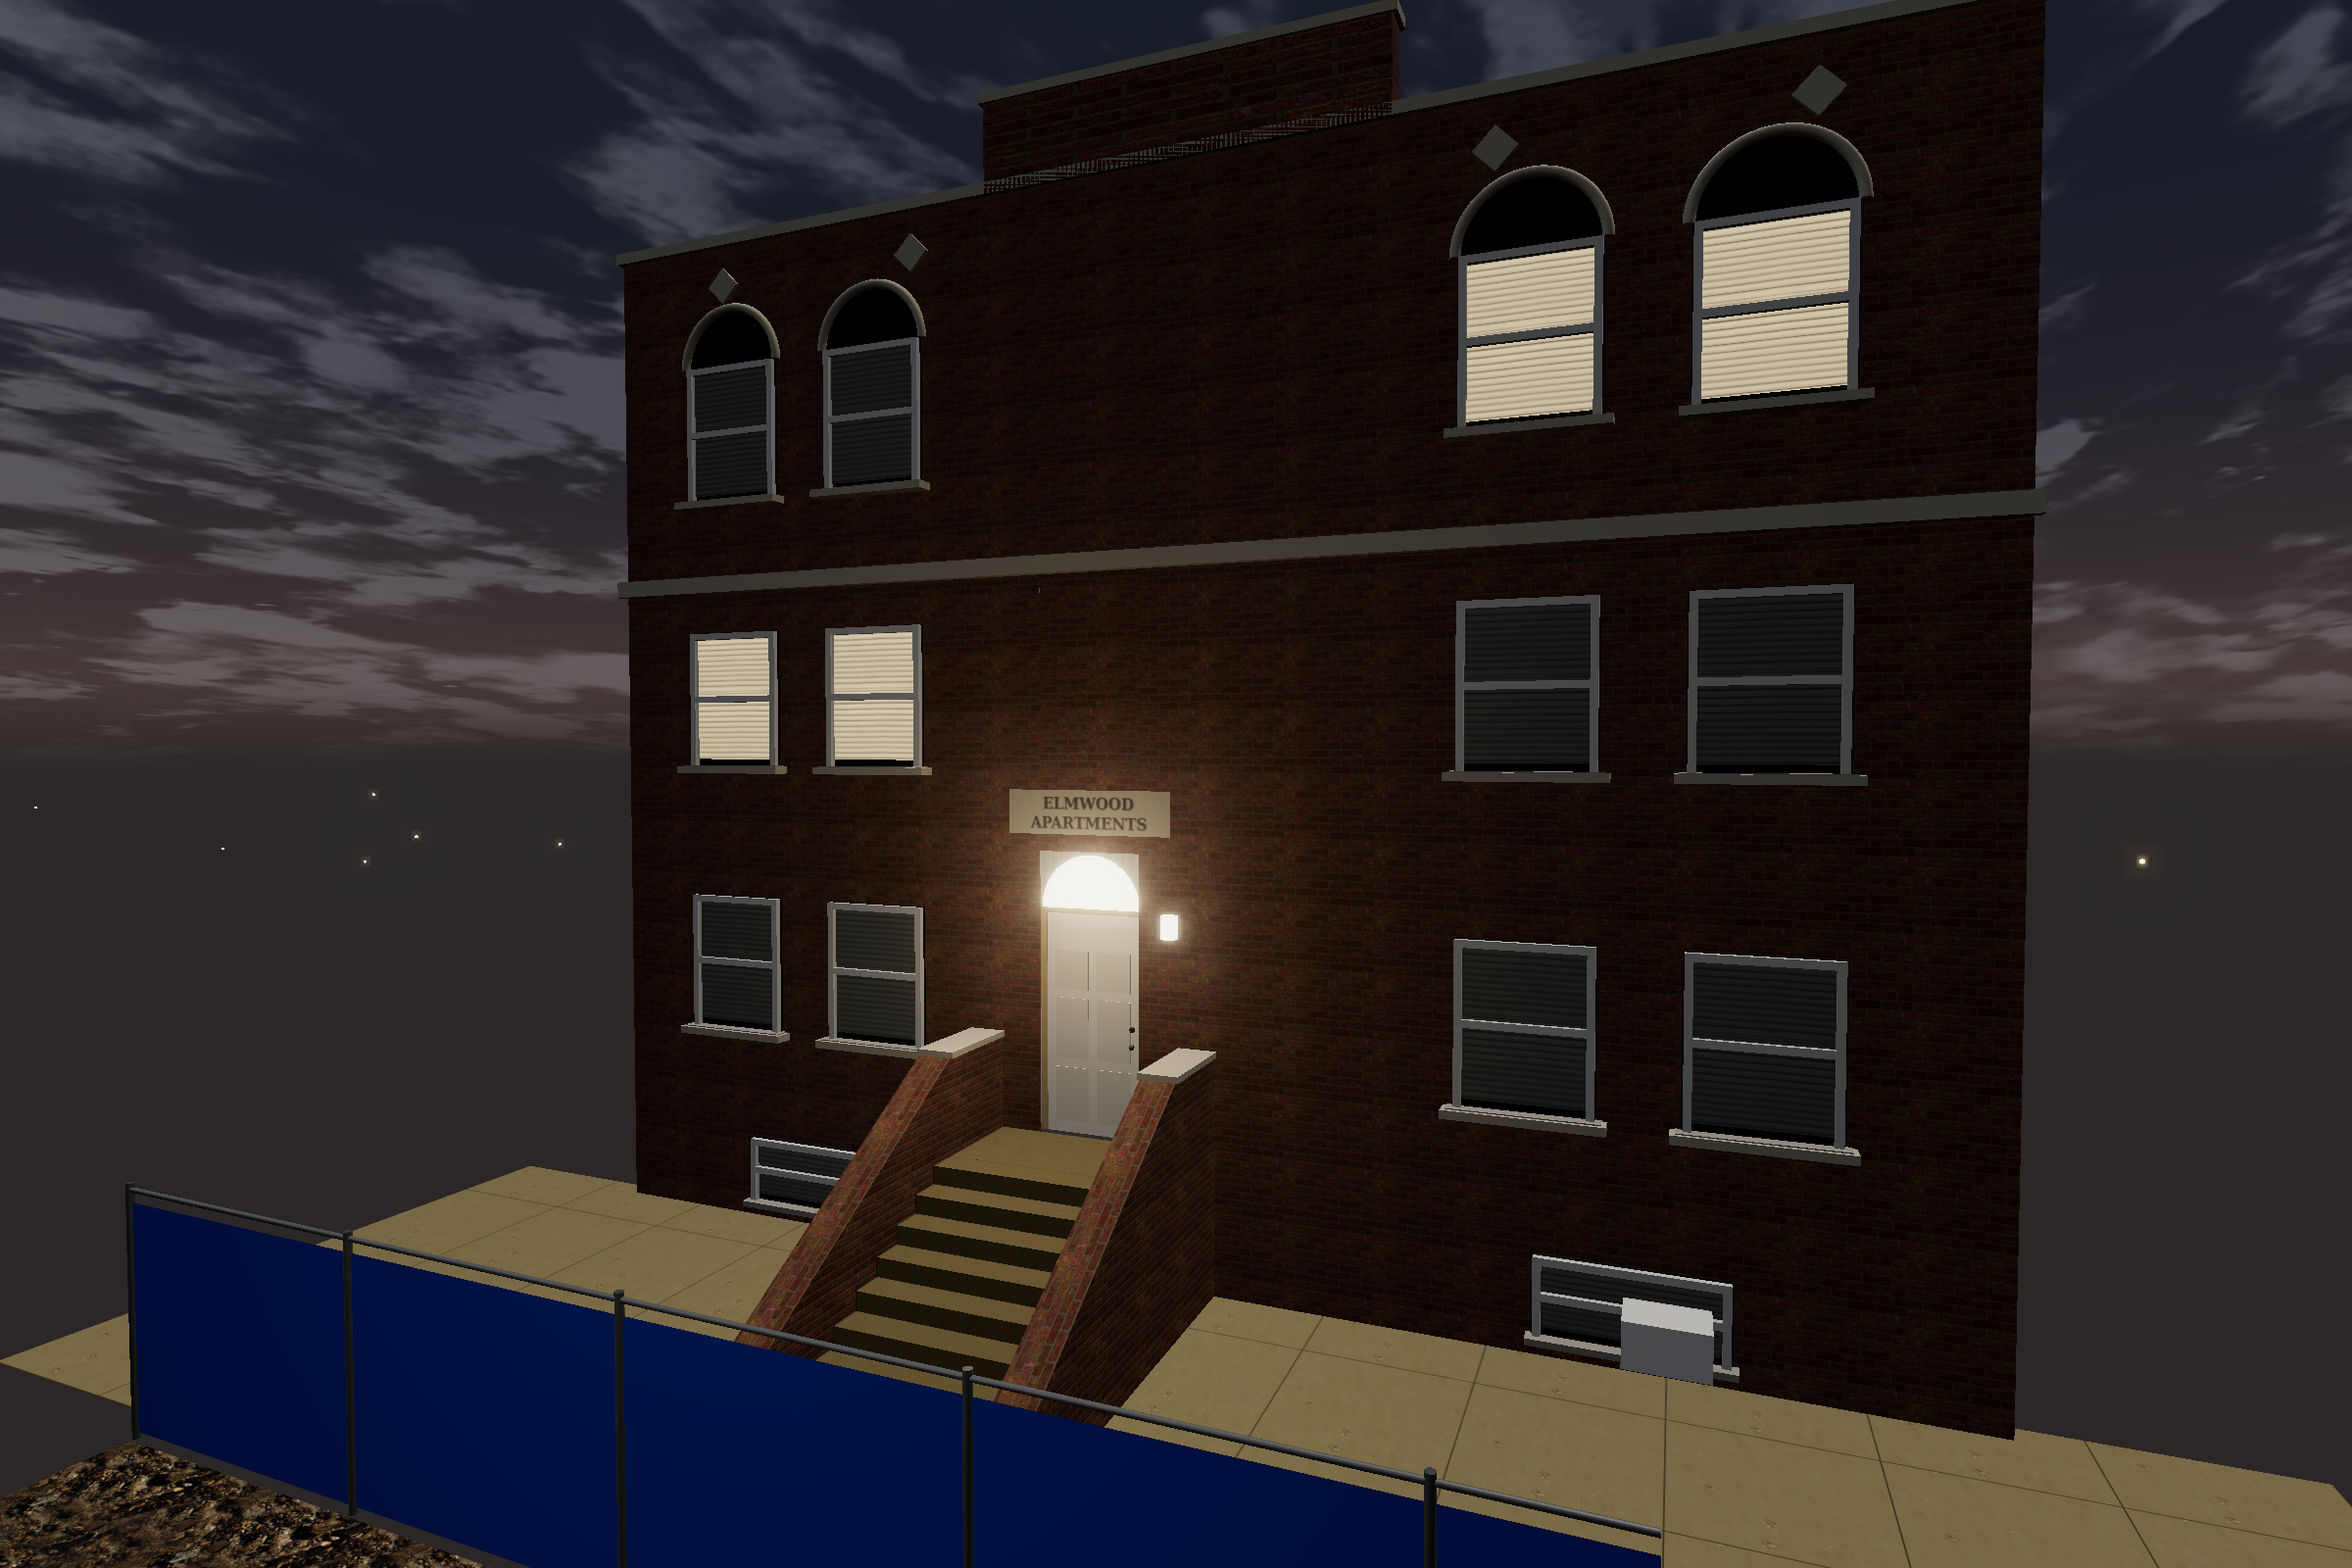
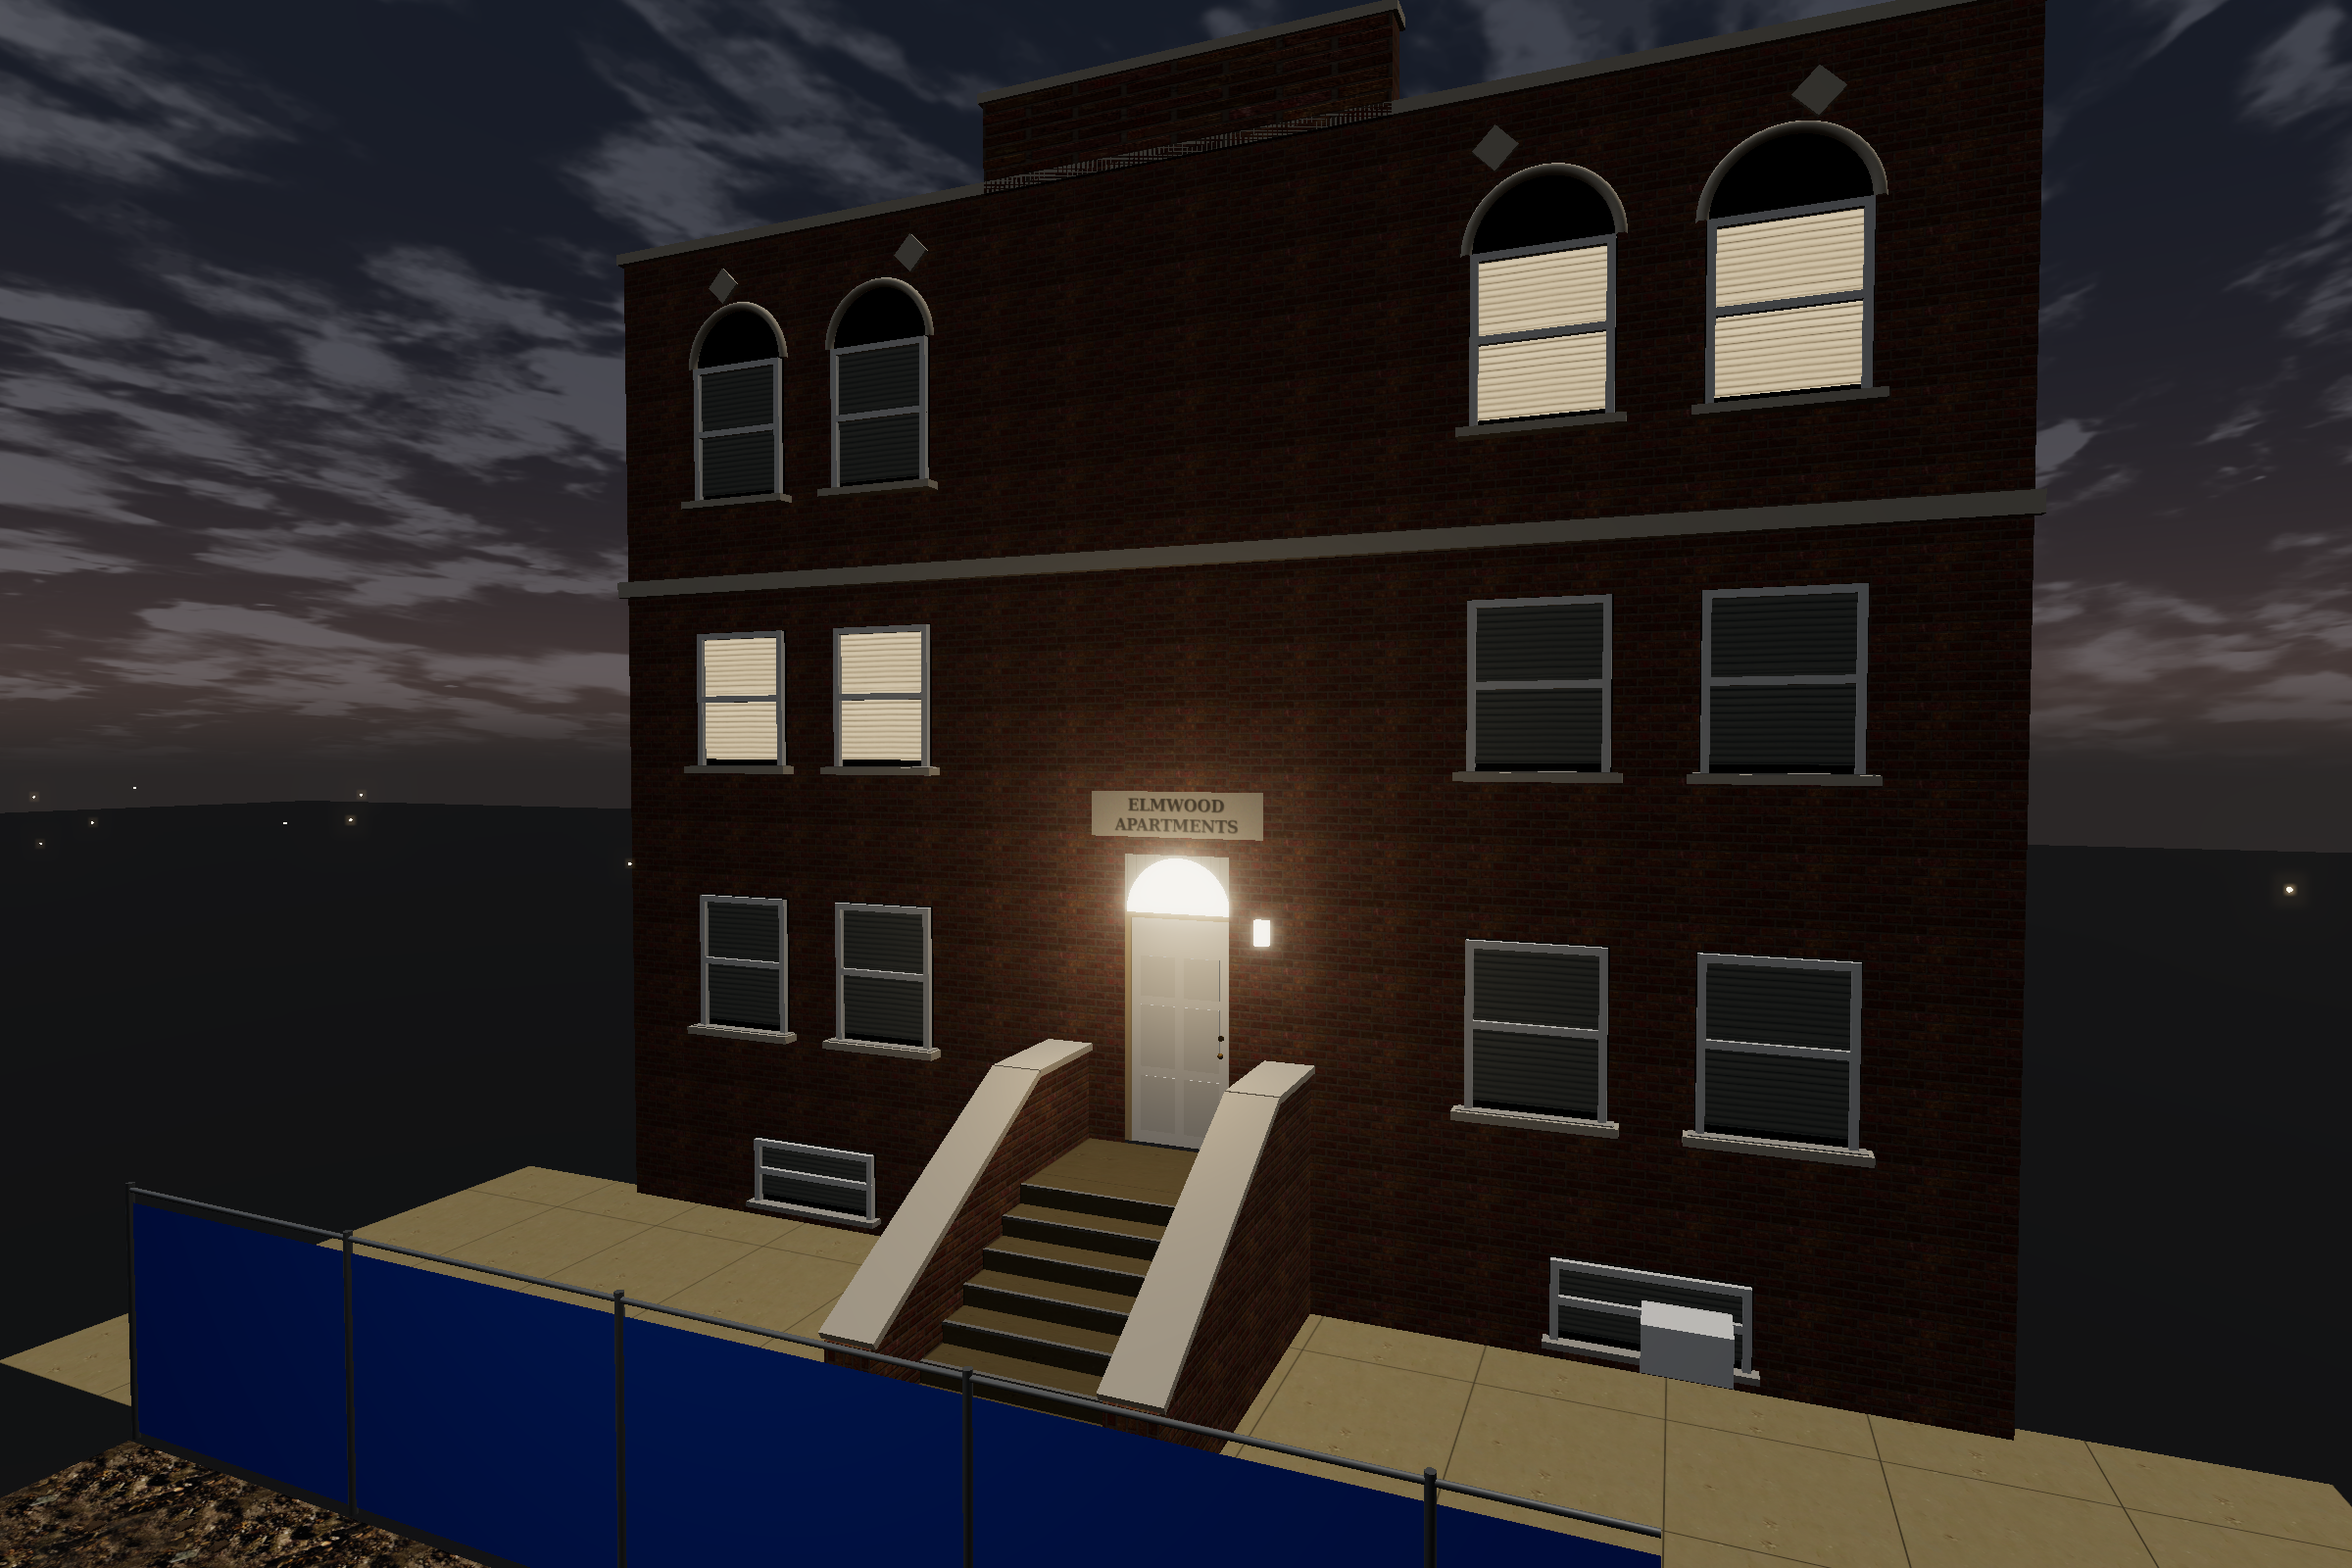
Fix giant black walls (ground pieces were stood upright); Elmwood: centred entry, rebuilt stoop with flared cheek walls; queue listings + robot vending
Claude-Session: https://claude.ai/code/session_01TQrqJmAwukpHBFUrZd2qrz

diff --git a/src/models/apartment.js b/src/models/apartment.js
@@ -38,8 +38,8 @@ export const APT = {
   F1: 1.4,      // raised first floor (stoop height)
   F2: 4.4,      // second floor
   FH: 3.0,
-  hall: { x0: -1.9, x1: 0.0 },       // hallway strip
-  stair: { x0: 0.1, x1: 1.1, z0: -2.6, z1: 2.4 }, // climbs toward -z
+  hall: { x0: -0.95, x1: 0.95 },     // hallway strip, centred on the building
+  stair: { x0: 1.05, x1: 2.05, z0: -2.6, z1: 2.4 }, // climbs toward -z
 };
 
 function sixPanelDoor(M, w = 0.86, h = 2.03) {
@@ -122,7 +122,7 @@ export function makeApartment() {
   }
 
   // windows: 3 columns each side of the entry bay; top floor arched
-  const cols = [-5.4, -3.5, 3.3, 5.2];
+  const cols = [-5.3, -3.4, 3.4, 5.3];  // symmetric about the centred entry
   for (let f = 0; f < 3; f++) {
     for (const x of cols) {
       const y = F1 + f * FH + 1.5;
@@ -141,7 +141,7 @@ export function makeApartment() {
     }
   }
   // garden-level windows with AC units
-  for (const x of [-4.4, 4.2]) {
+  for (const x of [-4.35, 4.35]) {
     const w = makeWindow(1.6, 0.7, false);
     w.position.set(x, 0.55, zf + 0.01);
     g.add(w);
@@ -164,31 +164,56 @@ export function makeApartment() {
   el.position.set((dx0 + dx1) / 2, F1 + 2.4, zf + 1.4);
   g.add(el);
 
-  // ------------------------------------------------ brick stoop with flared cheek walls
-  const steps = 8, rise = F1 / steps, run = 0.3;
-  const sw = 2.0, scx = (dx0 + dx1) / 2;
-  const landD = 1.0;
-  g.add(box(sw, F1, landD, M.concrete, scx, F1 / 2, zf + landD / 2));
+  // ------------------------------------------------ brick stoop (front photos)
+  // Grey concrete steps between thick brick cheek walls; each wall slopes down with
+  // the stair and ends in a short wing that flares outward, with a stone cap.
+  const steps = 8, rise = F1 / steps, run = 0.32;
+  const sw = 1.9, scx = (dx0 + dx1) / 2;
+  const landD = 1.1;
+  const stepMat = std({ map: tex('sidewalk.png'), color: '#a7a49e', roughness: 0.95 });
+  g.add(box(sw, F1, landD, stepMat, scx, F1 / 2, zf + landD / 2));
   for (let i = 0; i < steps; i++) {
-    const zz = zf + landD + (steps - 1 - i) * run + run / 2;
-    g.add(box(sw, rise * (i + 1), run, M.concrete, scx, rise * (i + 1) / 2, zz));
+    const h = rise * (steps - i);                    // i = 0 is the top step next to the landing
+    const zz = zf + landD + i * run + run / 2;
+    g.add(box(sw, h, run, stepMat, scx, h / 2, zz));
+    g.add(box(sw + 0.02, 0.025, 0.04, std({ color: '#7d7b77' }), scx, h - 0.012, zz + run / 2 - 0.02, { shadow: false })); // nosing
   }
   const stoopEnd = zf + landD + steps * run;
+  const T = 0.42;                                    // wall thickness
+  const brickSide = (len, hgt) => plane(M.brick, len, hgt, 0.86, 0.61);
   for (const s of [-1, 1]) {
-    // cheek wall: a brick slab whose top follows the stairs, flaring out at the bottom
-    const pts = [[zf, 0], [stoopEnd + 0.4, 0], [stoopEnd + 0.4, 0.55], [zf + landD, F1 + 0.95], [zf, F1 + 0.95]];
+    const xc = scx + s * (sw / 2 + T / 2);
+    // profile in (z, y): level beside the landing, then sloping down with the steps
+    const top = (z) => (z <= zf + landD ? F1 + 0.9 : Math.max(0.55, F1 + 0.9 - (z - zf - landD) * (rise / run)));
+    const pts = [[zf, 0], [stoopEnd, 0], [stoopEnd, top(stoopEnd)], [zf + landD, F1 + 0.9], [zf, F1 + 0.9]];
     const shape = new THREE.Shape(pts.map(([z, y]) => new THREE.Vector2(z, y)));
-    const geo = new THREE.ExtrudeGeometry(shape, { depth: 0.35, bevelEnabled: false });
-    geo.rotateY(-Math.PI / 2);
+    const geo = new THREE.ExtrudeGeometry(shape, { depth: T, bevelEnabled: false });
+    geo.rotateY(-Math.PI / 2);                       // shape x -> world z, extrusion -> world -x
     const uv = geo.attributes.uv;
     for (let i = 0; i < uv.count; i++) uv.setXY(i, uv.getX(i) / 0.86, uv.getY(i) / 0.61);
     const wall = new THREE.Mesh(geo, M.brick);
-    wall.position.x = scx + s * (sw / 2 + 0.175) + 0.175;
+    wall.position.x = xc + T / 2;
     wall.castShadow = wall.receiveShadow = true;
     g.add(wall);
-    const cap = box(0.4, 0.06, landD, M.stone, scx + s * (sw / 2 + 0.175), F1 + 0.98, zf + landD / 2);
+    // stone cap following the top: level part + sloped part
+    g.add(box(T + 0.08, 0.07, landD, M.stone, xc, F1 + 0.935, zf + landD / 2));
+    const slopeLen = Math.hypot(stoopEnd - zf - landD, F1 + 0.9 - top(stoopEnd));
+    const cap = box(T + 0.08, 0.07, slopeLen, M.stone, xc, (F1 + 0.9 + top(stoopEnd)) / 2 + 0.035, (zf + landD + stoopEnd) / 2);
+    cap.rotation.x = Math.atan2(F1 + 0.9 - top(stoopEnd), stoopEnd - zf - landD);
     g.add(cap);
-    solid(scx + s * (sw / 2 + 0.175) - 0.2, scx + s * (sw / 2 + 0.175) + 0.2, zf, stoopEnd + 0.4);
+    // flared wing at the bottom: a low brick block angled 35 degrees outward, with a square pier
+    const wingL = 0.9;
+    const wing = new THREE.Group();
+    wing.add(box(T, 0.55, wingL, M.brick, 0, 0.275, wingL / 2));
+    wing.add(box(T + 0.08, 0.07, wingL, M.stone, 0, 0.585, wingL / 2));
+    wing.position.set(xc, 0, stoopEnd);
+    wing.rotation.y = s * 0.6;
+    g.add(wing);
+    const pier = box(0.55, 0.7, 0.55, M.brick, xc + s * Math.sin(0.6) * wingL, 0.35, stoopEnd + Math.cos(0.6) * wingL);
+    g.add(pier);
+    g.add(box(0.62, 0.07, 0.62, M.stone, pier.position.x, 0.735, pier.position.z));
+    solid(xc - T / 2, xc + T / 2, zf, stoopEnd);
+    solid(pier.position.x - 0.3, pier.position.x + 0.3, pier.position.z - 0.3, pier.position.z + 0.3);
   }
 
   // ------------------------------------------------ interior
@@ -307,7 +332,7 @@ export function makeApartment() {
     // outdoor stoop
     if (x > sx0 && x < sx1 && z > zf && z < stoopEnd + 0.2) {
       if (z < zf + landD) return F1;
-      return Math.max(0, F1 - Math.ceil((z - zf - landD) / run) * rise);
+      return Math.max(0, rise * (steps - Math.floor((z - zf - landD) / run)));
     }
     if (x < I.x0 - 0.1 || x > I.x1 + 0.1 || z < I.z0 - 0.1 || z > zf + 0.1) return null; // not inside
     const inStair = x > stair.x0 && x < stair.x1 && z > stair.z0 - 0.05 && z < stair.z1 + 0.05;

diff --git a/src/main.js b/src/main.js
@@ -143,7 +143,6 @@ for (const [a, b, c, d] of [[-80, 13, -120, 80], [17, 120, -120, 80], [13, 17, -
   m.receiveShadow = true;
   pavement.add(m);
 }
-pavement.rotation.x = -Math.PI / 2;
 pavement.position.set(0, -0.01, 0);
 outside.add(pavement);
 // Night sky with the photographed clouds and the half moon (sky + moon photos).
@@ -621,6 +620,7 @@ const VIEWS = {
   canvases: { pos: [-1, 1.7, 1.2], target: [-1, 1.8, 5] },
   mural: { pos: [5.2, 2.2, 10.2], target: [10, 3, 16.2] },
   apartment: { pos: [38.5, 3.5, 4.5], target: [52, 5, -1] },
+  stoop: { pos: [47.6, 2.4, 3.4], target: [50.5, 1.0, -1] },
   abandoned: { pos: [13.0, 2.0, 2.0], target: [19.5, 1.4, 0.2] },
 };
 let mode = 'walk';

diff --git a/QUEUE.md b/QUEUE.md
@@ -23,7 +23,7 @@ Rules (from you):
 - Restaurant burger poster (BIG BUN BURGERS)
 
 ## In review
-- Apartment building (Elmwood Apartments): brick front, stoop, opening entry door, walkable
+- Apartment building (Elmwood Apartments): brick front, centred entry, rebuilt stoop with flared brick cheek walls, opening entry door, walkable
   hallway with mailboxes/unit doors, stairs up to a 2nd-floor hall. Screenshots: `screenshots/apt-*.png`.
 
 ## Old review notes
@@ -201,6 +201,18 @@ Rules (from you):
     crushed/bent sideways, faded red handle grip, black flip-up child-seat panel, small casters,
     jammed against a galvanized cart-corral rail; orange delineator post with a rubber base,
     aggregate parking-lot asphalt with white lines. Also a normal undamaged cart variant.
+52. Apartment listing posters (photos/listings/): lit window-display flyers in a steel frame -
+    blue water-photo header with big yellow title, white body with address line, pink/blue
+    feature lines, yellow amenity tags, big rent + deposit lines, room photos, floor plan, map
+    snippet. Redraw as original English-language rental flyers for the made-up buildings
+    (Elmwood Apartments, Maple Creek Properties), fake 555 numbers. Hang them in the teal
+    shop window / a realty office window, lit from behind.
+53. Robot vending machine (photos/vending/): yellow drink vending machine dressed as a boxy robot
+    - big head with one round black speaker "eye", shoulder pods, chunky arms with blocky
+    hands, foot plates; faded/peeling paint, taped patch, graffiti tags and stickers; drinks
+    behind glass with price tags, gears behind the products, coin/bill slots, pickup flap.
+    Made-up name on the front (not FABOT), made-up drink labels; next to ordinary blue and red
+    vending machines.
 
 ## Notes for later passes
 - Swap the real text in earlier pieces for made-up text: the boarded-up shop's "1402"
